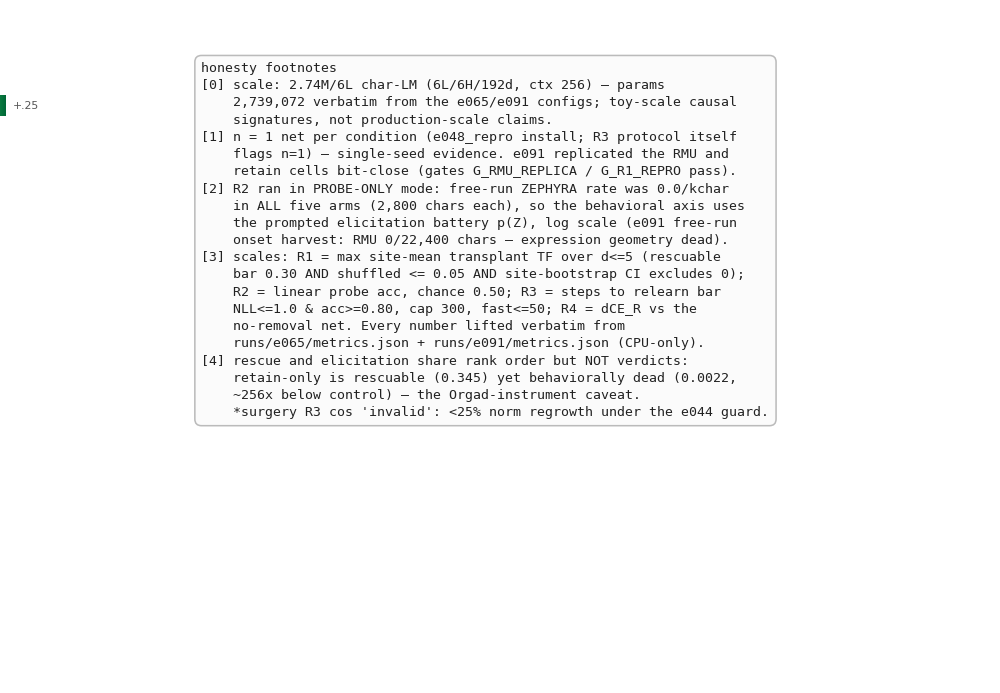
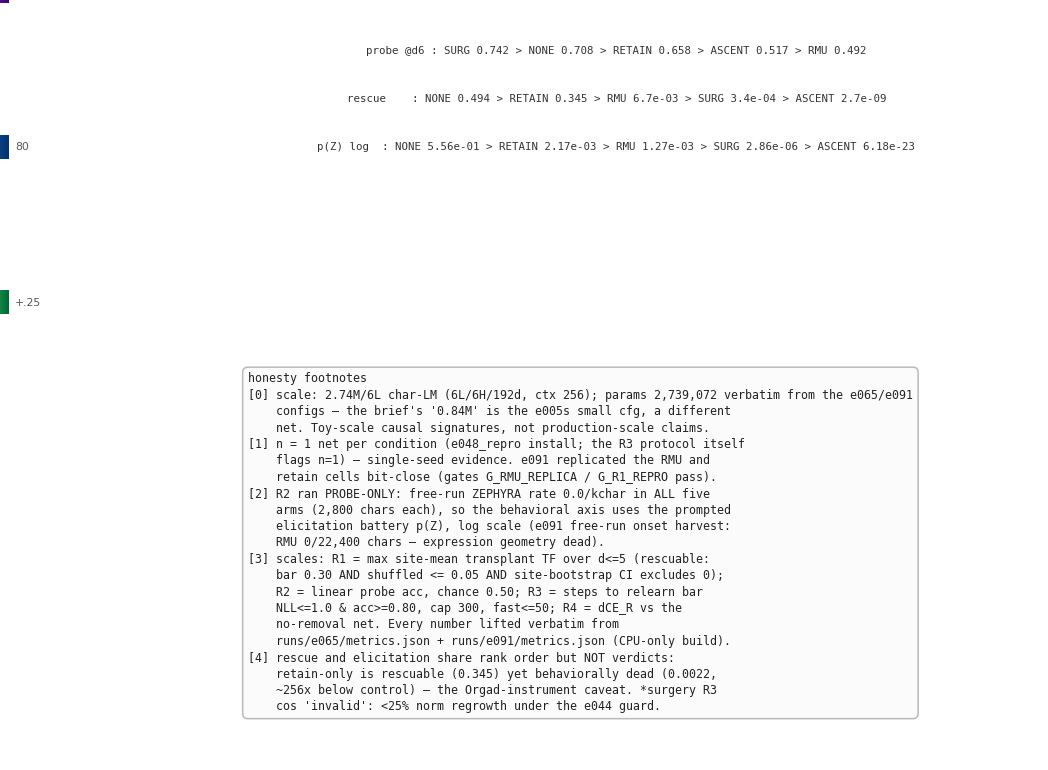
v016 final: six layout defects fixed; scale corrected to 2.7M (config-sourced; brief's 0.84M was wrong — agent caught and disclosed it)

diff --git a/lab/v016_unlearning_signatures.py b/lab/v016_unlearning_signatures.py
@@ -107,11 +107,12 @@ def f_batt(v: float) -> str:
 # ---------------------------------------------------------------- figure
 fig = plt.figure(figsize=(17.0, 11.0))
 outer = GridSpec(2, 2, figure=fig, width_ratios=[1.72, 1.0],
-                 hspace=0.16, wspace=0.16,
-                 left=0.032, right=0.985, top=0.865, bottom=0.028)
+                 hspace=0.20, wspace=0.16,
+                 left=0.032, right=0.985, top=0.865, bottom=0.028,
+                 height_ratios=[1.0, 0.44])
 
 gleft = GridSpecFromSubplotSpec(2, 1, subplot_spec=outer[:, 0],
-                                height_ratios=[1.0, 0.30], hspace=0.06)
+                                height_ratios=[1.0, 0.12], hspace=0.06)
 axm = fig.add_subplot(gleft[0, 0])
 
 ROWS = ["R1  TRANSPLANT-RESCUE", "R2  LINEAR PROBE",
@@ -279,8 +280,8 @@ callout = (
     "evacuate the store — it sealed the gate. And the RMU net's free-run "
     f"onset geometry died too ({ONSET_BANK}/{ONSET_CHARS:,} chars)."
 )
-axm.annotate(callout, xy=(1.0, 3.54), xytext=(1.05, 4.57),
-             ha="center", va="top", fontsize=6.6, linespacing=1.42,
+axm.annotate(callout, xy=(1.0, 3.54), xytext=(1.05, 4.58),
+             ha="center", va="bottom", fontsize=6.6, linespacing=1.42,
              color="#4a235a",
              bbox=dict(boxstyle="round,pad=0.45", facecolor="#f7eefc",
                        edgecolor=ARM_COLOR["rmu"], lw=1.8),
@@ -307,18 +308,14 @@ def norm01(vals, log=False):
 AXES = [
     dict(name="PROBE\nacc @d6", vals=probe_vals, y=norm01(probe_vals),
          fmt=lambda v: f"{v:.3f}", marks=[(0.50, "chance")],
-         mval=lambda t: (t - min(probe_vals)) / (max(probe_vals) - min(probe_vals)),
-         rank="1 SURG  2 NONE  3 RETAIN  4 ASCENT  5 RMU"),
+         mval=lambda t: (t - min(probe_vals)) / (max(probe_vals) - min(probe_vals))),
     dict(name="TRANSPLANT-RESCUE\nmax TF d<=5", vals=resc_vals,
          y=norm01(resc_vals, log=True), fmt=f_r1,
          marks=[(BAR, "bar .30")],
          mval=lambda t: (np.log10(t) - np.log10(min(resc_vals)))
-         / (np.log10(max(resc_vals)) - np.log10(min(resc_vals))),
-         rank="1 NONE  2 RETAIN  3 RMU  4 SURG  5 ASCENT"),
+         / (np.log10(max(resc_vals)) - np.log10(min(resc_vals)))),
     dict(name="ELICITATION p(Z)\nbattery (log)", vals=batt_vals,
-         y=norm01(batt_vals, log=True), fmt=f_batt, marks=[],
-         mval=None,
-         rank="1 NONE  2 RETAIN  3 RMU  4 SURG  5 ASCENT"),
+         y=norm01(batt_vals, log=True), fmt=f_batt, marks=[], mval=None),
 ]
 XS = [0, 1, 2]
 
@@ -332,8 +329,6 @@ for k, ax_ in enumerate(AXES):
                  va="center", ha="left")
     axp.text(XS[k], 1.07, ax_["name"], ha="center", va="bottom", fontsize=7.6,
              fontweight="bold", color="#1a1a1a", linespacing=1.3)
-    axp.text(XS[k], -0.10, ax_["rank"], ha="center", va="top", fontsize=5.8,
-             color="#555555")
 
 for idx, a in enumerate(ARMS):
     ys = [AXES[k]["y"][idx] for k in range(3)]
@@ -342,20 +337,31 @@ for idx, a in enumerate(ARMS):
              alpha=0.95, zorder=3,
              marker="o", ms=5.5, mec="white", mew=0.8,
              label=ARM_SHORT[a])
-    for k in range(3):
-        dy = 0.035 if a != "no_removal" else 0.055
-        axp.text(XS[k] + 0.055, ys[k] + dy, AXES[k]["fmt"](AXES[k]["vals"][idx]),
-                 fontsize=5.6, color=ARM_COLOR[a], rotation=90,
-                 ha="left", va="bottom", zorder=4)
+
+# orderings + values beneath the panel (three instruments, three rankings)
+def order_line(vals, fmt):
+    order = sorted(range(len(ARMS)), key=lambda i: -vals[i])
+    return " > ".join(f"{ARM_SHORT[ARMS[i]]} {fmt(vals[i])}" for i in order)
+
+
+ORDER_LINES = [
+    "probe @d6 : " + order_line(probe_vals, lambda v: f"{v:.3f}"),
+    "rescue    : " + order_line(resc_vals, f_r1),
+    "p(Z) log  : " + order_line(batt_vals, f_batt),
+]
+for r, line in enumerate(ORDER_LINES):
+    axp.text(1.0, -0.125 - 0.115 * r, line, ha="center", va="top",
+             fontsize=5.5, family="monospace", color="#333333", zorder=4)
 
 axp.set_xlim(-0.52, 2.60)
-axp.set_ylim(-0.30, 1.34)
+axp.set_ylim(-0.62, 1.34)
 axp.set_xticks([])
 axp.set_yticks([])
 for s in axp.spines.values():
     s.set_visible(False)
-axp.legend(fontsize=6.4, loc="lower left", framealpha=0.95, ncol=1,
-           title="arm", title_fontsize=6.6)
+axp.legend(fontsize=6.2, loc="upper center", bbox_to_anchor=(0.5, -0.42),
+           frameon=False, ncol=5, columnspacing=1.3, handletextpad=0.4,
+           handlelength=1.6)
 axp.set_title("SIDE — the three-readout dissociation: probe crowns surgery; "
               "rescue crowns retain-only;\nelicitation crowns only the intact "
               "net — RMU: probe 0.492 yet rescue 0.007 on the SAME net",
@@ -366,30 +372,30 @@ axn = fig.add_subplot(outer[1, 1])
 axn.axis("off")
 notes = (
     "honesty footnotes\n"
-    f"[0] scale: {SCALE_STR} — params\n"
-    f"    {PARAMS:,} verbatim from the e065/e091 configs; toy-scale causal\n"
-    "    signatures, not production-scale claims.\n"
-    "[1] n = 1 net per condition (e048_repro install; R3 protocol itself\n"
+    f"[0] scale: {SCALE_STR}; params {PARAMS:,} verbatim from the e065/e091\n"
+    "    configs — the brief's '0.84M' is the e005s small cfg, a different\n"
+    "    net. Toy-scale causal signatures, not production-scale claims.\n"
+    "[1] n = 1 net per condition (e048_repro install; the R3 protocol itself\n"
     "    flags n=1) — single-seed evidence. e091 replicated the RMU and\n"
     "    retain cells bit-close (gates G_RMU_REPLICA / G_R1_REPRO pass).\n"
-    "[2] R2 ran in PROBE-ONLY mode: free-run ZEPHYRA rate was 0.0/kchar\n"
-    "    in ALL five arms (2,800 chars each), so the behavioral axis uses\n"
-    "    the prompted elicitation battery p(Z), log scale (e091 free-run\n"
-    "    onset harvest: RMU 0/22,400 chars — expression geometry dead).\n"
-    "[3] scales: R1 = max site-mean transplant TF over d<=5 (rescuable\n"
+    "[2] R2 ran PROBE-ONLY: free-run ZEPHYRA rate 0.0/kchar in ALL five\n"
+    "    arms (2,800 chars each), so the behavioral axis uses the prompted\n"
+    "    elicitation battery p(Z), log scale (e091 free-run onset harvest:\n"
+    "    RMU 0/22,400 chars — expression geometry dead).\n"
+    "[3] scales: R1 = max site-mean transplant TF over d<=5 (rescuable:\n"
     "    bar 0.30 AND shuffled <= 0.05 AND site-bootstrap CI excludes 0);\n"
     "    R2 = linear probe acc, chance 0.50; R3 = steps to relearn bar\n"
     "    NLL<=1.0 & acc>=0.80, cap 300, fast<=50; R4 = dCE_R vs the\n"
     "    no-removal net. Every number lifted verbatim from\n"
-    "    runs/e065/metrics.json + runs/e091/metrics.json (CPU-only).\n"
+    "    runs/e065/metrics.json + runs/e091/metrics.json (CPU-only build).\n"
     "[4] rescue and elicitation share rank order but NOT verdicts:\n"
     "    retain-only is rescuable (0.345) yet behaviorally dead (0.0022,\n"
-    "    ~256x below control) — the Orgad-instrument caveat.\n"
-    "    *surgery R3 cos 'invalid': <25% norm regrowth under the e044 guard."
+    "    ~256x below control) — the Orgad-instrument caveat. *surgery R3\n"
+    "    cos 'invalid': <25% norm regrowth under the e044 guard."
 )
-axn.text(0.012, 0.985, notes, fontsize=6.8, va="top", ha="left",
-         family="monospace", color="#222222", linespacing=1.42,
-         bbox=dict(boxstyle="round,pad=0.5", facecolor="#fbfbfb",
+axn.text(0.010, 0.99, notes, fontsize=6.0, va="top", ha="left",
+         family="monospace", color="#222222", linespacing=1.34,
+         bbox=dict(boxstyle="round,pad=0.45", facecolor="#fbfbfb",
                    edgecolor="#bbbbbb", lw=0.8))
 
 # ---------------------------------------------------------------- title
